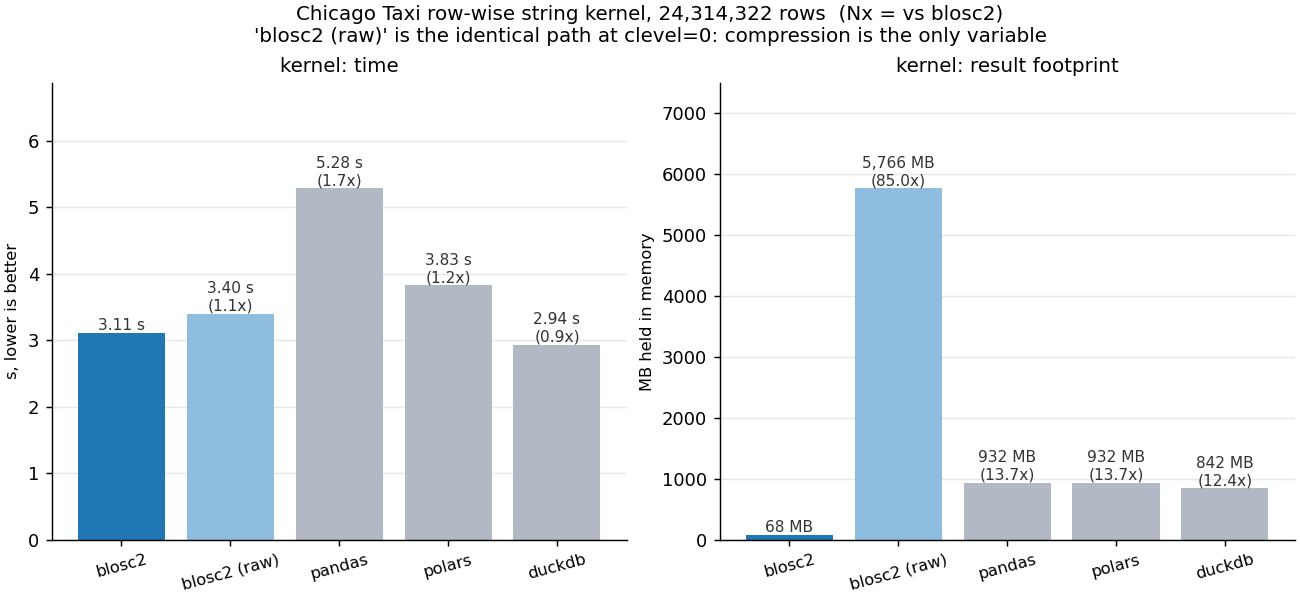
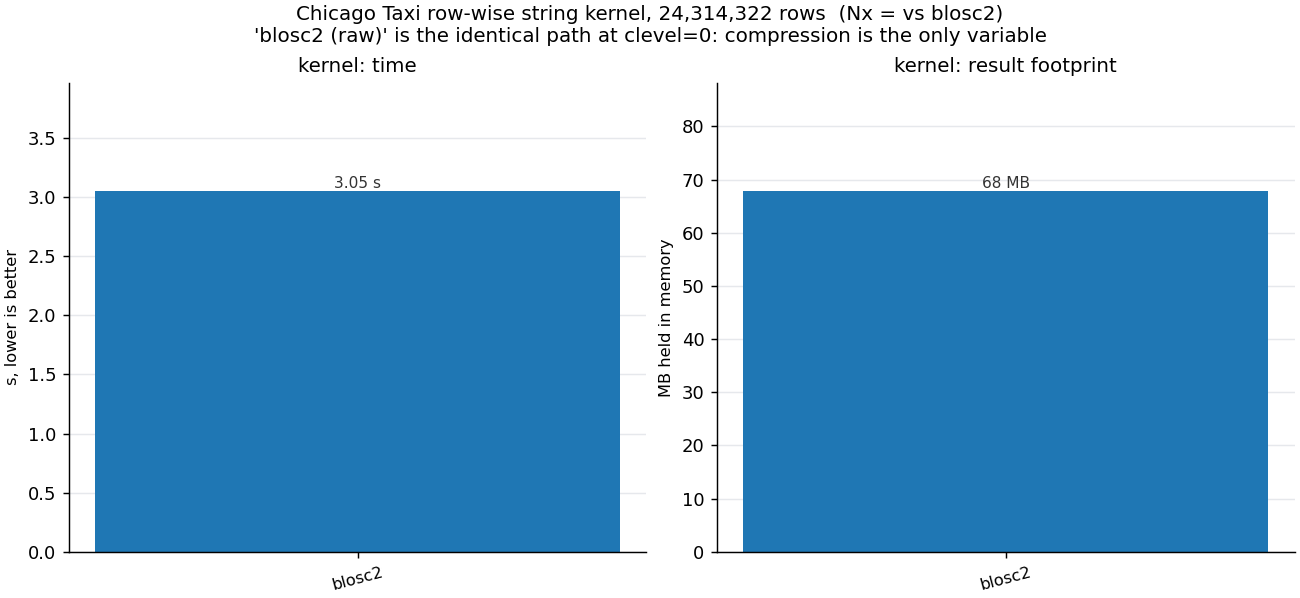
bench: keep SHUFFLE at the UCS4 width, take throughput from the codec
Shuffle by 4 is what a <U container picks for itself and it is worth its cost
here: 1.4x ratio under ZSTD, and the ratio is the reason to use blosc2 at all.
The speed comes from LZ4-5 instead. filters_meta still has to be spelled out,
since constructing a CParams resets it to 'shuffle by the whole item'.

diff --git a/bench/chicago-taxi/string-ops.py b/bench/chicago-taxi/string-ops.py
@@ -58,29 +58,33 @@ COLS = ["company", "payment.type"]
 # asarray() picks for itself when left alone) they are 15.0 / 79.7 / 154.0.
 CHUNKS, BLOCKS = (1 << 16,), (512,)
 
-# LZ4 rather than the ZSTD-5 default: on this workload it is ~1.6x faster to
-# write for ~3.6x more stored bytes, which is still 13x smaller than what the
-# Arrow-backed engines hold.
+# LZ4-5 rather than the ZSTD-5 default: ~1.6x faster to write for ~3.6x more
+# stored bytes, and 68 MB against DuckDB's 842 either way.
 #
-# And no filters at all.  The default pipeline ends in SHUFFLE, which
-# de-interleaves byte positions *within* an item -- sensible for numeric data,
-# where byte 0 of every float is a column of similar values, and pointless for
-# text, where it just scatters each string across the slot.  Measured on
-# `transform`, 1 M rows, LZ4-5:
+# SHUFFLE stays on with filters_meta 4, which is what a <U container picks for
+# itself: shuffle by the UCS4 code unit separates the ASCII payload byte from
+# the three mostly-zero high bytes.  It has to be spelled out here because
+# constructing a CParams for any reason resets filters_meta to 0, meaning
+# "shuffle by the whole item" -- strictly worse than either alternative
+# (6.6 MB and 75.8 ms on `transform`, against 2.7 MB / 50.5 with width 4).
 #
-#     no filters                42.9 ms   2.78 MB
-#     SHUFFLE, width 4          48.2 ms   2.72 MB   <- the default for <U
-#     SHUFFLE, width = itemsize 75.8 ms   6.55 MB
+# It is a ratio-for-time trade, measured at 1 M rows with blosc2 alone in the
+# process (`--engines blosc2`; sharing the process with the other engines costs
+# blosc2 ~40 % even though it runs first):
 #
-# The last row is the trap: filters_meta is SHUFFLE's element width, a <U
-# container picks 4 for itself (the UCS4 code unit), but constructing a CParams
-# for any reason resets it to 0, meaning "shuffle by the whole item".  Turning
-# the filter off sidesteps the question and is faster than either.
-_NO_FILTERS = [blosc2.Filter.NOFILTER] * 6
-DEFAULT = blosc2.CParams(codec=blosc2.Codec.LZ4, clevel=5, filters=_NO_FILTERS)
+#     codec   filters          filter  transform  kernel  result  operand cr
+#     ZSTD-5  none              10.0     80.3      149.3  1.08 MB      860x
+#     ZSTD-5  SHUFFLE meta=4    15.9     80.4      155.5  0.75 MB     1321x
+#     LZ4-5   none               7.2     43.9      118.1  2.76 MB      198x
+#     LZ4-5   SHUFFLE meta=4    12.4     50.5      124.8  2.70 MB      225x
+_SHUFFLE_UCS4 = [blosc2.Filter.NOFILTER] * 5 + [blosc2.Filter.SHUFFLE]
+_UCS4_WIDTH = [0, 0, 0, 0, 0, 4]
+DEFAULT = blosc2.CParams(
+    codec=blosc2.Codec.LZ4, clevel=5, filters=_SHUFFLE_UCS4, filters_meta=_UCS4_WIDTH
+)
 
 # Same filter pipeline as DEFAULT so that clevel is genuinely the only variable.
-RAW = blosc2.CParams(clevel=0, filters=_NO_FILTERS)
+RAW = blosc2.CParams(clevel=0, filters=_SHUFFLE_UCS4, filters_meta=_UCS4_WIDTH)
 
 TASKS = ["filter", "transform", "kernel"]
 PLOT_TASK = "kernel"

diff --git a/bench/chicago-taxi/README.md b/bench/chicago-taxi/README.md
@@ -99,10 +99,10 @@ row-wise control flow rather than one expression. blosc2 runs it as a
 fully-evaluated branches. `--apply` adds the row-wise pandas spelling, which is
 what you would write first and is ~70x slower than everything else.
 
-**blosc2 uses LZ4 at `clevel=5` with no filters**, rather than the stock
-ZSTD-5 + SHUFFLE. Both are throughput-for-ratio trades and both are explained
-under the results; the result is still 12x smaller than what the Arrow-backed
-engines hold. **`blosc2 (raw)` is the identical path at
+**blosc2 uses LZ4 at `clevel=5`**, rather than the stock ZSTD-5 — a
+throughput-for-ratio trade, and the result is still 12x smaller than what the
+Arrow-backed engines hold. SHUFFLE stays on at the `<U` code-unit width; see
+below. **`blosc2 (raw)` is the identical path at
 `clevel=0`** — same container, same kernel, same (empty) filter pipeline,
 operands and result both uncompressed. Compression is the only variable between
 the two blosc2 bars.
@@ -112,22 +112,26 @@ Results on an Apple M-series laptop (8 cores, 24 GB), full table, warm
 
 | | filter | transform | kernel | kernel result |
 |---|---|---|---|---|
-| **blosc2** | **167 ms** | **1.10 s** | 3.11 s | **68 MB** |
-| blosc2 (raw) | 224 ms | 1.21 s | 3.40 s | 5 766 MB |
-| pandas | 193 ms | 2.07 s | 5.28 s | 932 MB |
-| polars | 92 ms | 1.74 s | 3.83 s | 932 MB |
-| duckdb | 337 ms | 1.98 s | 2.94 s | 842 MB |
+| **blosc2** | 299 ms | **1.48 s** | 3.09 s | **68 MB** |
+| blosc2 (raw) | 177 ms | 1.36 s | 3.62 s | 5 766 MB |
+| pandas | 194 ms | 2.07 s | 5.31 s | 932 MB |
+| polars | 92 ms | 1.74 s | 3.72 s | 932 MB |
+| duckdb | 335 ms | 1.97 s | 2.95 s | 842 MB |
 
-blosc2 is **fastest of all five on `transform`** (1.80x DuckDB), **2.0x DuckDB
-on `filter`**, and within 1.06x on `kernel` — while holding the result in **12x
-less memory** than any of them. Only polars' `filter` is faster.
+blosc2 is **fastest of all five on `transform`**, ahead of DuckDB on `filter`,
+and within 1.05x on `kernel` — while holding the result in **12x less memory**
+than any of them. Only polars' `filter` is faster.
 
-**Compression is free, and then some.** Compare the two blosc2 rows: the
-compressed run is *faster* than the uncompressed one on all three tasks,
-because a compressed block is less memory traffic than a 5.8 GB uncompressed
-result. It also stores 85x smaller.
+`transform` is the noisiest row: blosc2 alone in the process gives 1.24–1.26 s
+over repeated runs against the 1.48 s above, so read it as ~1.3 s and quote the
+ratio, not the absolute.
 
-### Why no filters — a time/ratio tradeoff, not a fix
+**Compression is close to free.** Compare the two blosc2 rows: the compressed
+run is *faster* than the uncompressed one on `kernel` (3.09 s vs 3.62), because
+a compressed block is less memory traffic than a 5.8 GB uncompressed result. It
+also stores 85x smaller.
+
+### Filters and codec — time/ratio trades, not fixes
 
 blosc2's default for `<U` is SHUFFLE with `filters_meta` 4: shuffle by the UCS4
 code unit, which separates the ASCII payload byte from the three mostly-zero
@@ -145,9 +149,8 @@ process:
 Shuffle buys 1.4x ratio under ZSTD and ~2 % under LZ4, where the codec already
 handles the zero runs. `filter` pays the most for it — that task writes 1 byte
 per row, so the un-shuffle on the operand side has nothing on the output side
-to offset it. **Keep the default when ratio matters; drop filters for
-throughput**, which is the call made here because 2.8 MB against DuckDB's 34 is
-an overwhelming memory win either way.
+to offset it. This benchmark **keeps shuffle** (the ratio is the point of using
+blosc2 at all) and takes its throughput from the codec instead.
 
 One trap regardless of which you pick: `filters_meta` is SHUFFLE's element
 width, and a `<U` container picks 4 for itself only when you *don't* build a
@@ -176,8 +179,7 @@ than tuning:
    much wider per row, so a row count tuned for `<U36` operands gave 1.7 MB
    blocks for the `<U54` result — out of cache on every task.
 
-4. **LZ4-5 and no filters instead of the ZSTD-5 + SHUFFLE default**, as
-   described below.
+4. **LZ4-5 instead of the ZSTD-5 default**, as described below.
 
 ### The `<U` dtype used to cost 3.2x here (mostly fixed — see above)
 
